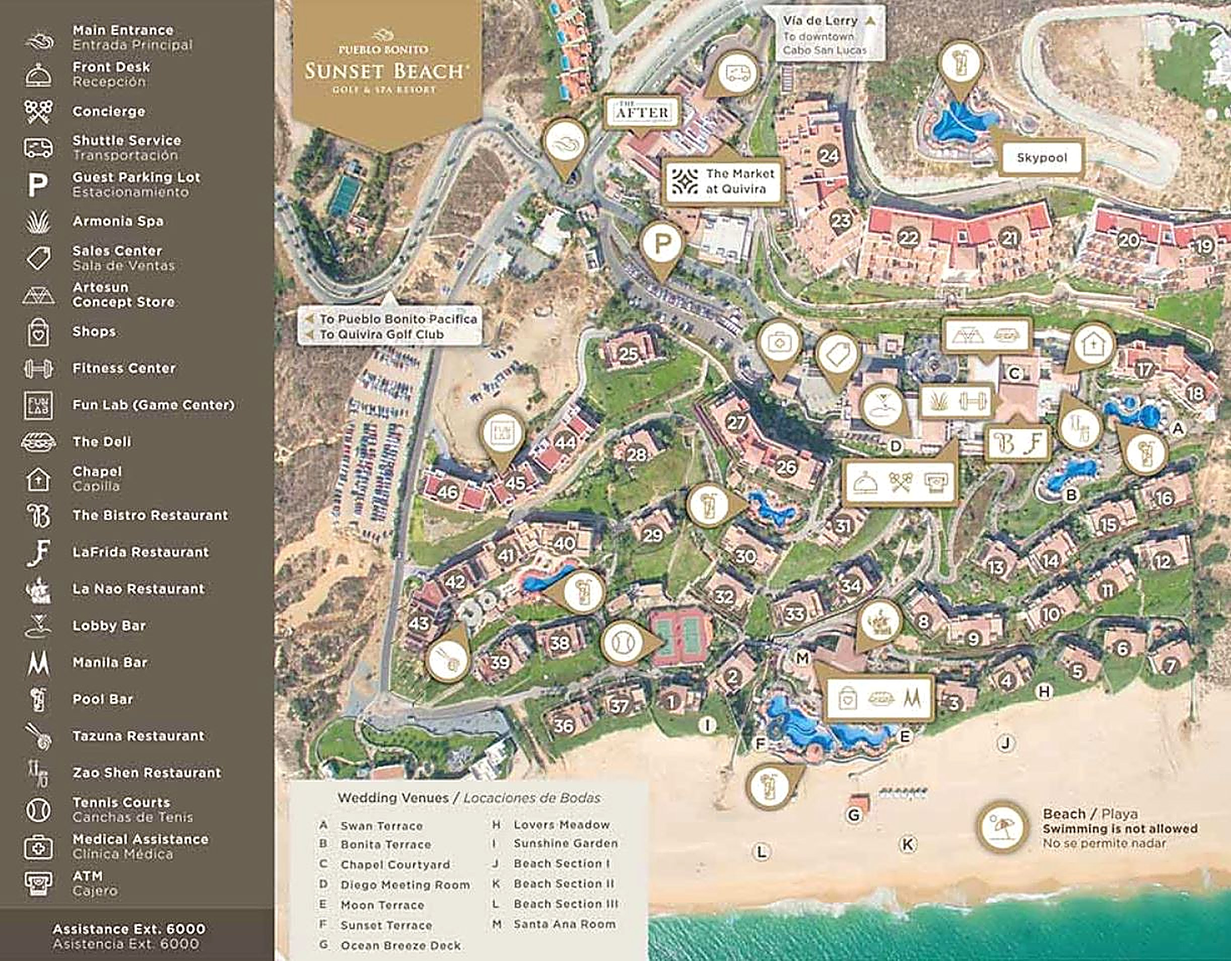
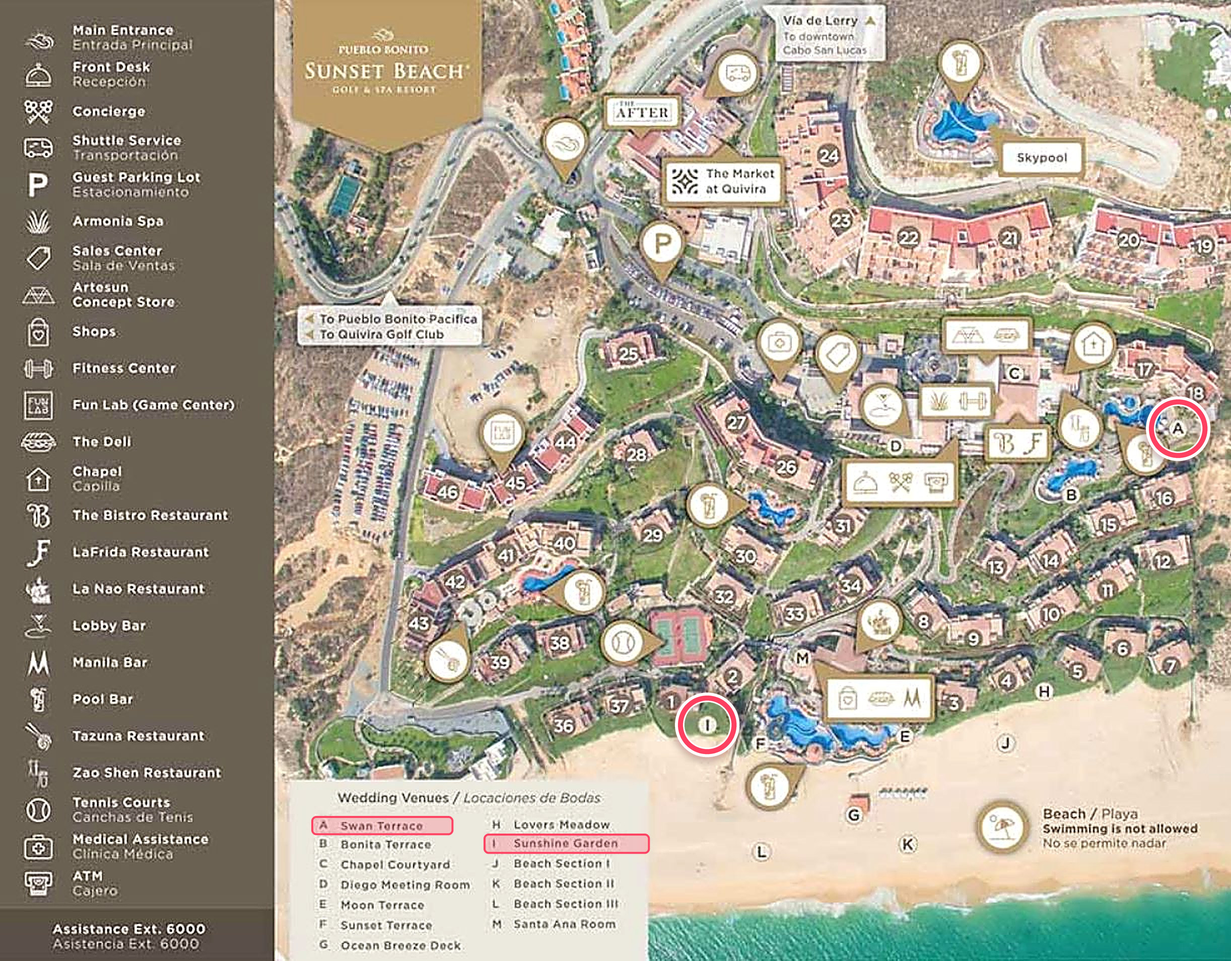
Highlight Sunshine Garden (I) and Swan Terrace (A) on resort map
Claude-Session: https://claude.ai/code/session_01GkJAWTJfqB2XVak8Ue5KwN

diff --git a/index.html b/index.html
@@ -372,9 +372,10 @@ footer a{color:#fff;font-size:.85rem;display:inline-block;margin-top:22px;paddin
     <p class="lede reveal">Tap the map to open it full size, then pinch to zoom. The wedding venues are listed in the box at the bottom.</p>
     <figure class="reveal">
       <a href="images/resort-map.jpg" target="_blank" rel="noopener">
-        <img src="images/resort-map.jpg" width="2444" height="1908" alt="Pueblo Bonito Sunset Beach resort map with a legend of restaurants, pools, services and wedding venues" loading="lazy" decoding="async">
+        <img src="images/resort-map.jpg" width="2444" height="1908" alt="Pueblo Bonito Sunset Beach resort map with a legend of restaurants, pools, services and wedding venues. Sunshine Garden (I) and Swan Terrace (A) are circled in red." loading="lazy" decoding="async">
       </a>
     </figure>
+    <p class="meta reveal"><b>Circled in red:</b> <b>I</b> is Sunshine Garden, where the ceremony is, and <b>A</b> is Swan Terrace, for cocktail hour and the reception.</p>
     <p class="meta reveal">Need help? Resort assistance is Ext. 6000 from your room phone.</p>
   </section>
 
